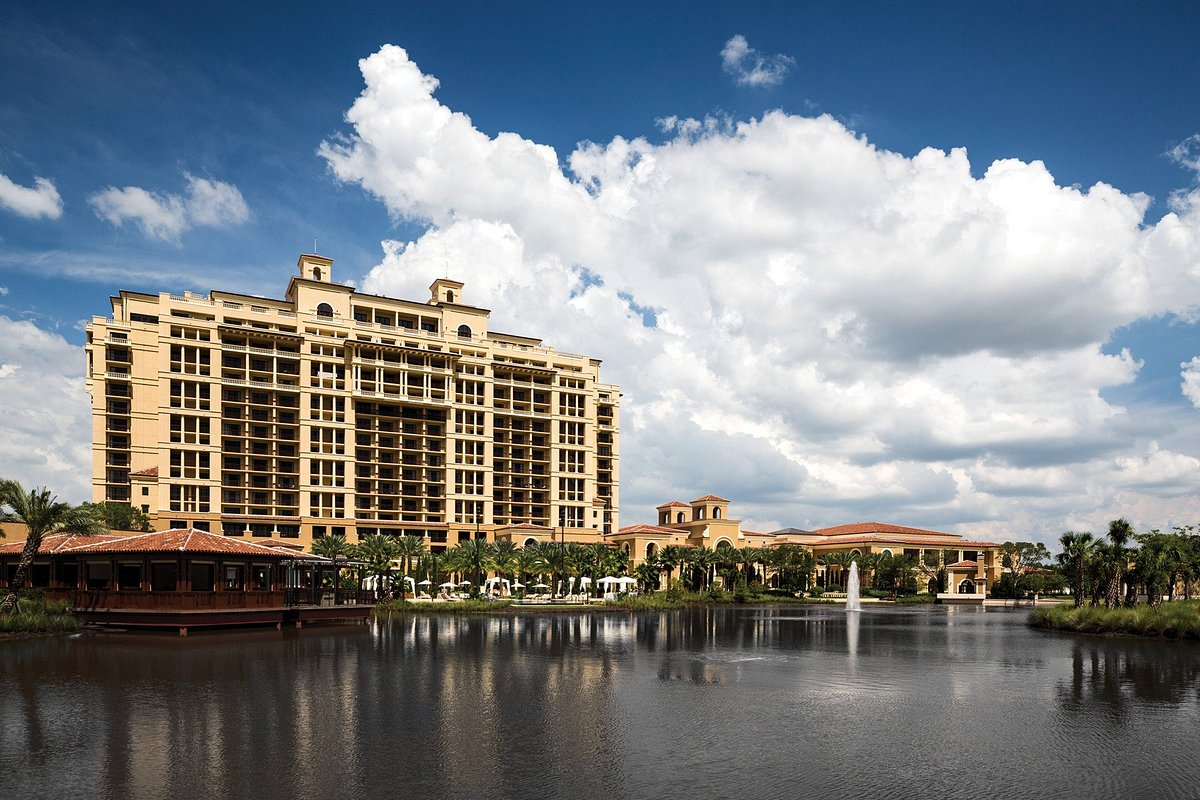
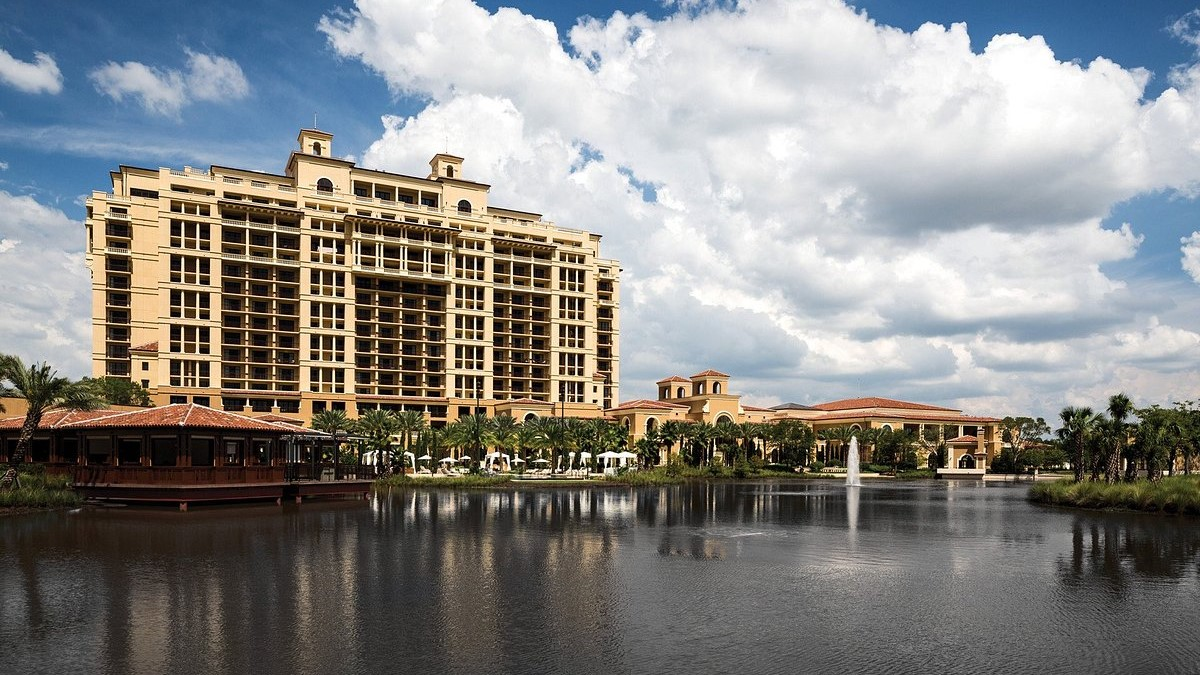
Resizing images e melhorando responsividade

diff --git a/Lets-Travel/style.css b/Lets-Travel/style.css
@@ -36,15 +36,16 @@ body {
     font-size: 1.3rem;
 }
 
-input[type="radio"]{
-    width: 2rem;
-    height: 2rem;
+.card input[type="radio"]{
+    width: 1.5rem;
+    height: 1.5rem;
 }
 
 /* ::: MAIN ::: */
 
 .outdoor{
     overflow: hidden;
+    width: 100%;
 }
 
 .outdoorSlide{
@@ -61,6 +62,7 @@ input[type="radio"]{
 
 .outdoorSlideItem{
     position: relative;
+    width: 100%;
 }
 
 .outdoorSlideItem img{
@@ -110,6 +112,8 @@ input[type="radio"]{
     left: 0;
     display: flex;
     transition: 1s;
+    height: 100%;
+    width: 100%;
 }
 
 .slide-radios {
@@ -125,6 +129,7 @@ input[type="radio"]{
 
 .card .slide img {
     width: 100%;
+    /* height: 23.5rem; */
     height: 100%;
 }
 
@@ -163,9 +168,8 @@ input[type="radio"]{
     }
 
     .card{
-        height: 33.5rem;
+        height: 35.6rem;
         border-radius: 1.7rem;
-
     }
 
     .card-details{
@@ -174,6 +178,15 @@ input[type="radio"]{
 
     .card-details .stars {
         width: 14.0rem;
+    }
+
+    .slide-radios{
+        gap:1.5rem;
+    }
+
+    .card input[type="radio"]{
+        width: 2rem;
+        height: 2rem;
     }
 
 }
@@ -200,5 +213,14 @@ input[type="radio"]{
 
     .card-details .stars {
         width: 20.0rem;
+    }
+
+    .slide-radios{
+        gap:3rem;
+    }
+
+    .card input[type="radio"]{
+        width: 3rem;
+        height: 3rem;
     }
 }

diff --git a/Lets-Travel/cityPage.html b/Lets-Travel/cityPage.html
@@ -15,7 +15,7 @@
     <script src="./createCityPage.js" defer></script>
 
 
-    <title>VR TRAVEL NOVO</title>
+    <title>LET'S TRAVEL NOVO</title>
 </head>
 
 <body>

diff --git a/Lets-Travel/index.html b/Lets-Travel/index.html
@@ -15,7 +15,7 @@
     <script src="./createHomePage.js" defer></script>
 
 
-    <title>VR TRAVEL NOVO</title>
+    <title>LET'S TRAVEL NOVO</title>
 </head>
 
 <body>
